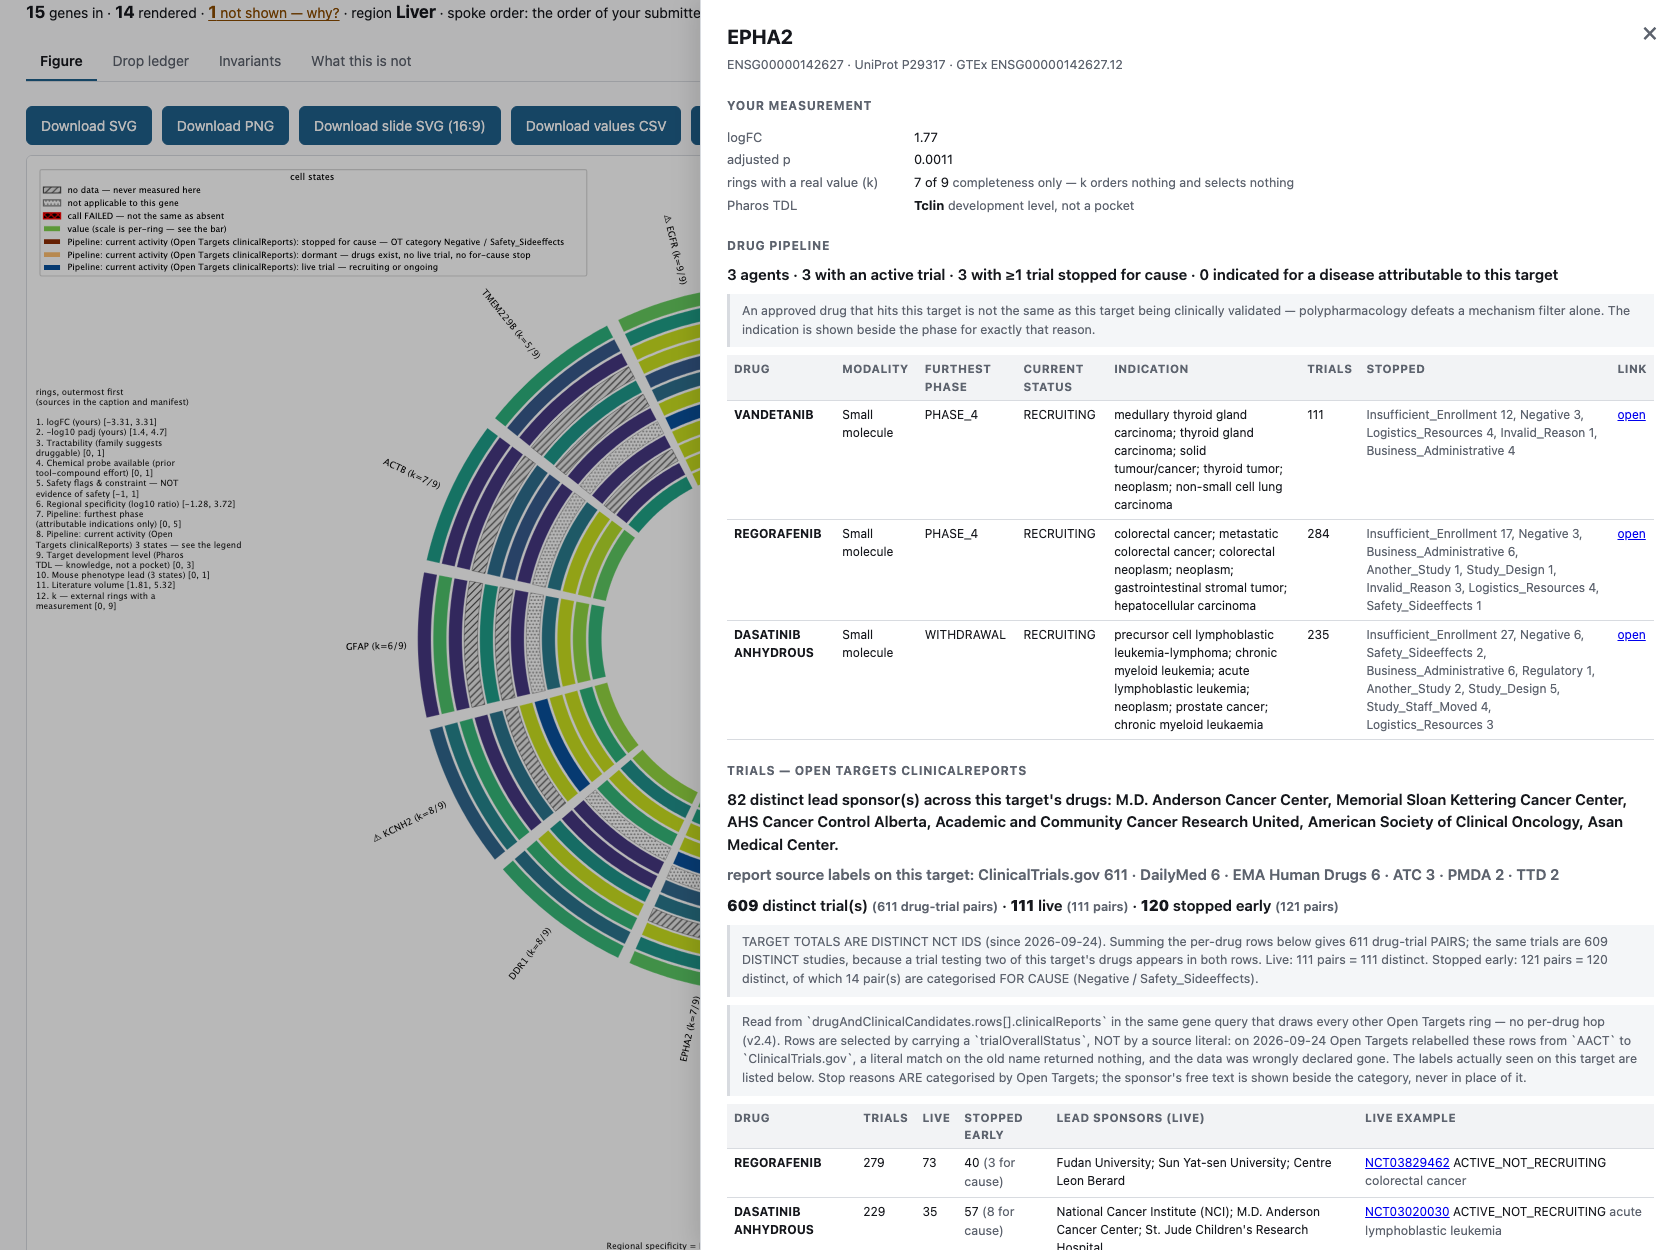
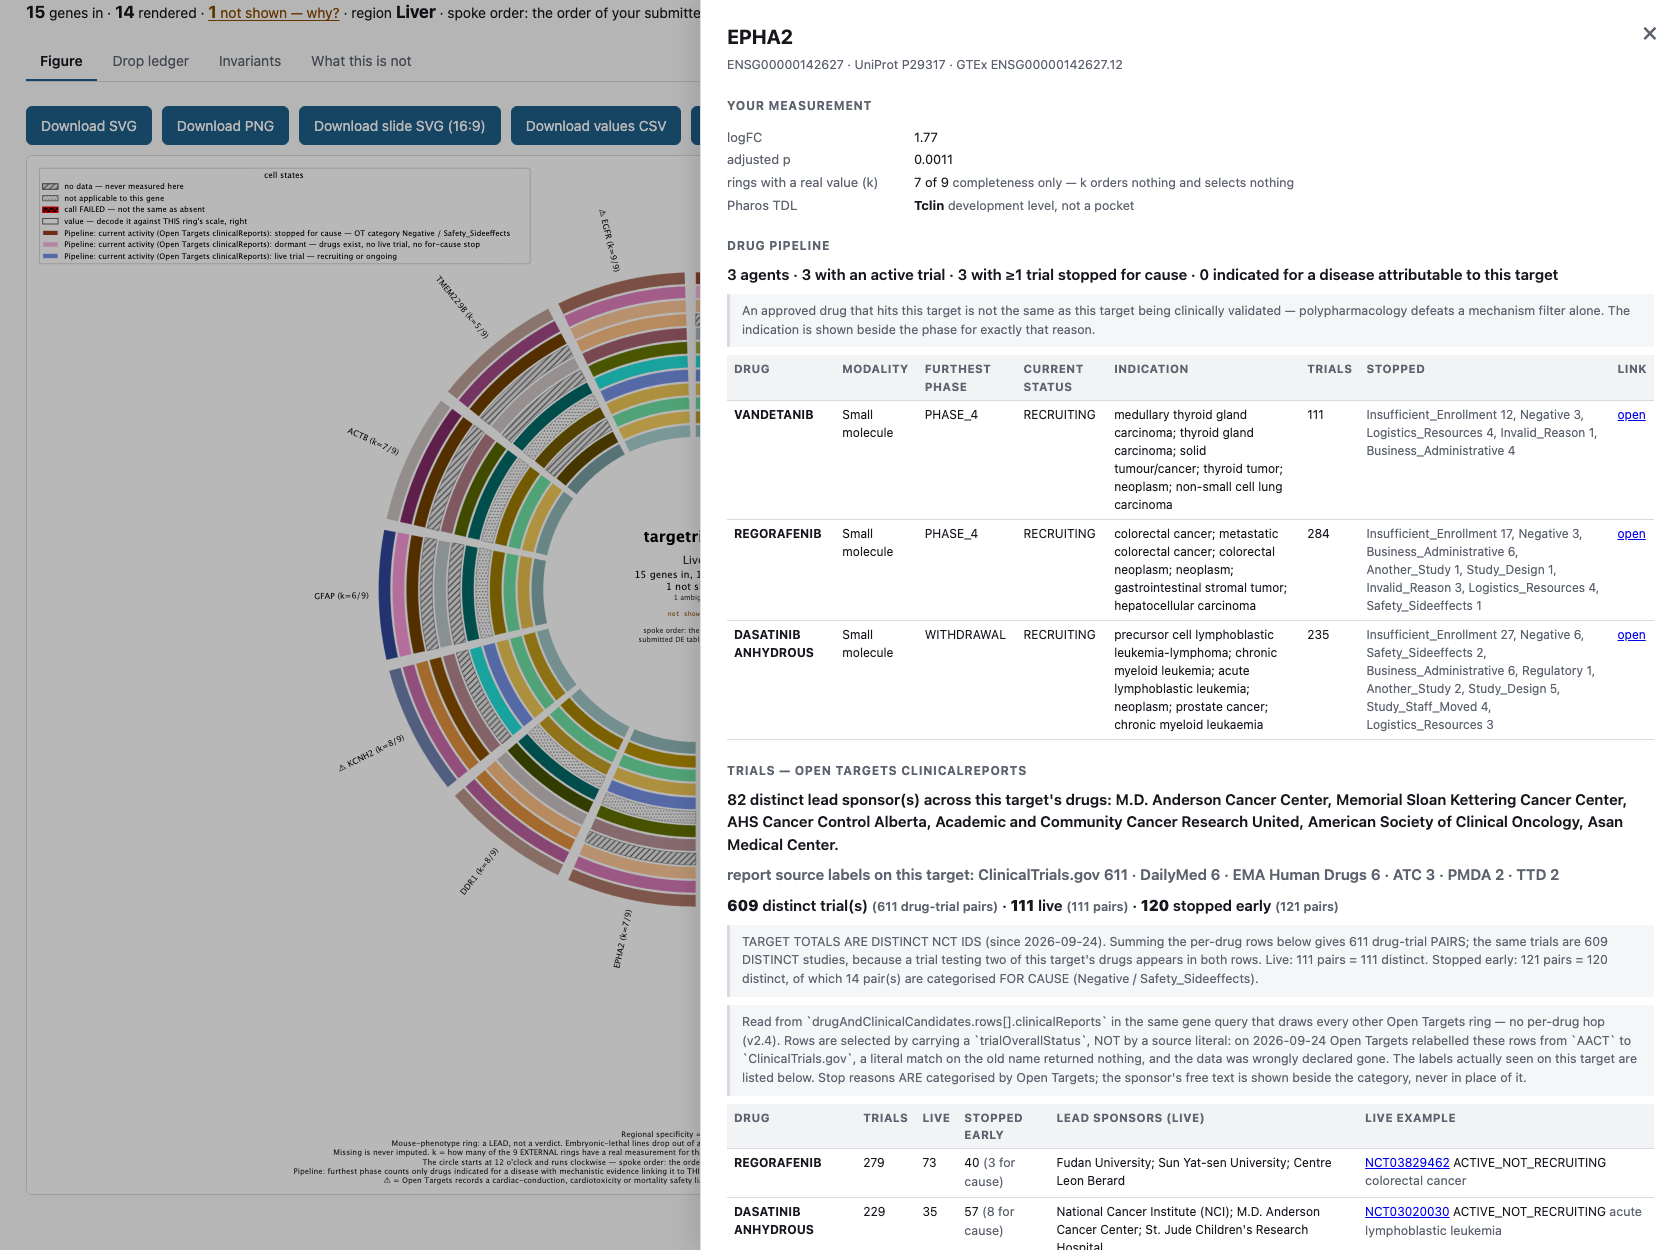
v2.6: screenshots retaken on the new palette, plus the before/after crop
scripts/before_after_crop.py locates the same cells by their SVG ids in both
runs, because the canvases are different sizes now. On the council liver run
v2.5 painted 16 (gene, colour) pairs identically across two to seven different
rings; v2.6 paints none. 7b is renamed: it shows the ring scales, not a key.

diff --git a/scripts/before_after_crop.py b/scripts/before_after_crop.py
@@ -1,0 +1,139 @@
+"""The one comparison a reader can check without trusting the report (v2.6).
+
+On the council liver run, v2.5 painted 16 (gene, colour) pairs identically on
+two to seven *different* rings -- the literal UX A5 defect, and the reason the
+report cannot just say "the rings are more distinguishable now". This crops the
+same spoke out of the v2.5 and v2.6 audit renders so the same cells can be put
+side by side.
+
+The crop is located by the cells' own SVG ids rather than by geometry, because
+the two canvases are different sizes and the axes box moved to make room for
+the scale column -- picking pixel coordinates by hand would be a measurement of
+nothing.
+
+Run: PYTHONPATH=. .venv/bin/python scripts/before_after_crop.py \\
+         runs/V25-COUNCIL-COLD runs/V26-COUNCIL-COLD TTR \\
+         docs/screenshots/9-two-rings-that-looked-alike.png
+"""
+from __future__ import annotations
+
+import csv
+import re
+import sys
+import xml.etree.ElementTree as ET
+from pathlib import Path
+
+from PIL import Image, ImageDraw, ImageFont
+
+NS = "{http://www.w3.org/2000/svg}"
+RINGS = ("clinical_phase", "regional_specificity")
+
+
+def _cell_boxes(svg: Path, gene: str, rings=RINGS) -> dict[str, tuple[float, ...]]:
+    """Bounding boxes, in SVG user units, of this gene's cells on these rings."""
+    root = ET.parse(svg).getroot()
+    want = {r: f"cell|{r}|" for r in rings}
+    out: dict[str, tuple[float, ...]] = {}
+    for el in root.iter():
+        gid = el.get("id") or ""
+        for ring, prefix in want.items():
+            if not gid.startswith(prefix) or not gid.endswith(f"|{gene}"):
+                continue
+            xs, ys = [], []
+            for node in [el] + list(el.iter()):
+                d = node.get("d")
+                if not d:
+                    continue
+                nums = [float(v) for v in re.findall(r"-?\d+\.?\d*(?:e-?\d+)?", d)]
+                xs += nums[0::2]
+                ys += nums[1::2]
+            if xs:
+                out[ring] = (min(xs), min(ys), max(xs), max(ys))
+    return out
+
+
+def _fills(run: Path, gene: str) -> dict[str, str]:
+    return {r["ring"]: r["fill"] for r in csv.DictReader(open(run / "values.csv"))
+            if r["gene"] == gene and r["ring"] in RINGS}
+
+
+def _crop(run: Path, gene: str, pad: float = 1.55) -> Image.Image:
+    """The spoke, cropped from the PNG the run already wrote."""
+    svg, png = run / "figure.svg", run / "figure.png"
+    root = ET.parse(svg).getroot()
+    vb_w, vb_h = (float(v) for v in root.get("viewBox").split()[2:])
+    im = Image.open(png).convert("RGB")
+    sx, sy = im.width / vb_w, im.height / vb_h
+
+    boxes = _cell_boxes(svg, gene)
+    if len(boxes) < len(RINGS):
+        raise SystemExit(f"{run}: found {sorted(boxes)} for {gene}, wanted {RINGS}")
+    x0 = min(b[0] for b in boxes.values()) * sx
+    y0 = min(b[1] for b in boxes.values()) * sy
+    x1 = max(b[2] for b in boxes.values()) * sx
+    y1 = max(b[3] for b in boxes.values()) * sy
+    # SVG y grows downward in matplotlib's output, so no flip is needed.
+    cx, cy = (x0 + x1) / 2, (y0 + y1) / 2
+    half = max(x1 - x0, y1 - y0) * pad / 2
+    return im.crop((int(cx - half), int(cy - half), int(cx + half), int(cy + half)))
+
+
+def main() -> int:
+    before, after, gene, out = (Path(sys.argv[1]), Path(sys.argv[2]),
+                                sys.argv[3], Path(sys.argv[4]))
+    crops = [_crop(before, gene), _crop(after, gene)]
+    size = min(c.width for c in crops)
+    crops = [c.resize((size, size), Image.LANCZOS) for c in crops]
+
+    try:
+        big = ImageFont.truetype("/System/Library/Fonts/Helvetica.ttc", 21)
+        small = ImageFont.truetype("/System/Library/Fonts/Helvetica.ttc", 15)
+    except OSError:                                    # pragma: no cover
+        big = small = ImageFont.load_default()
+
+    fb, fa = _fills(before, gene), _fills(after, gene)
+    lines = {
+        "clinical_phase": "phase = 5 (approved)",
+        "regional_specificity": "specificity = 5,204x",
+    }
+    pad, header, footer = 24, 104, 132
+    probe = ImageDraw.Draw(Image.new("RGB", (1, 1)))
+    # The swatch column is placed past the longest caption rather than at a
+    # guessed offset -- the first version put it on top of the text.
+    text_w = max(probe.textlength(f"{t}   {f[k]}", font=small)
+                 for f in (fb, fa) for k, t in lines.items())
+    col_w = max(size, int(text_w) + 64)
+    W = col_w * 2 + pad * 3
+    canvas = Image.new("RGB", (W, size + header + footer), "white")
+    for i, c in enumerate(crops):
+        canvas.paste(c, (pad + i * (col_w + pad), header))
+    d = ImageDraw.Draw(canvas)
+    d.text((pad, 12), f"{gene}: clinical_phase and regional_specificity —",
+           font=big, fill="#111111")
+    d.text((pad, 38), "two rings that measure nothing in common",
+           font=big, fill="#111111")
+    d.text((pad, 74), "v2.5 — one viridis ramp", font=small, fill="#8a4b00")
+    d.text((pad + col_w + pad, 74), "v2.6 — one family per ring",
+           font=small, fill="#8a4b00")
+
+    y = header + size + 12
+    for i, f in enumerate((fb, fa)):
+        x = pad + i * (col_w + pad)
+        same = f[RINGS[0]] == f[RINGS[1]]
+        for j, ring in enumerate(("clinical_phase", "regional_specificity")):
+            d.text((x, y + j * 22), f"{lines[ring]}   {f[ring]}",
+                   font=small, fill="#111111")
+            d.rectangle((x + int(text_w) + 14, y + j * 22 + 2,
+                         x + int(text_w) + 54, y + j * 22 + 16),
+                        fill=f[ring], outline="#666666")
+        d.text((x, y + 52),
+               "the identical pixel" if same else "two colours, two scales",
+               font=small, fill="#b00020" if same else "#1a7f37")
+    out.parent.mkdir(parents=True, exist_ok=True)
+    canvas.save(out)
+    print(f"wrote {out}  ({fb} -> {fa})")
+    return 0
+
+
+if __name__ == "__main__":
+    sys.exit(main())

diff --git a/scripts/screenshots.py b/scripts/screenshots.py
@@ -157,14 +157,16 @@ def main() -> int:
         page.wait_for_timeout(600)
         shot(page, "7-drawer-trial-sponsors.png")
 
-        # 3c. The ring key naming the activity ring's source — which in v2.4 is
-        #     Open Targets clinicalReports again — the TDL ring, and the hatched
-        #     chemical-probe cells.
-        print("5c/10 the ring key — the activity ring's source named")
+        # 3c. v2.6 replaces the numbered monospace key with a scale per ring,
+        #     so the shot is renamed to what it now shows: twelve scales, each
+        #     in its own colours and its own units, the activity ring's source
+        #     named on it (Puck's v2.2 condition), the TDL ring's four discrete
+        #     levels, and the hatched chemical-probe cells beside them.
+        print("5c/10 the ring scales — each ring's own domain, units and source")
         page.click("#drawer-close")
         top(page)
         page.wait_for_timeout(400)
-        shot(page, "7b-ring-key-sources.png")
+        shot(page, "7b-ring-scales-and-sources.png")
 
         # 3d. v2.5 item 2: the same list, filtered. Two thresholds, one of them
         #     on a ring several of these genes have no value for, so the figure
